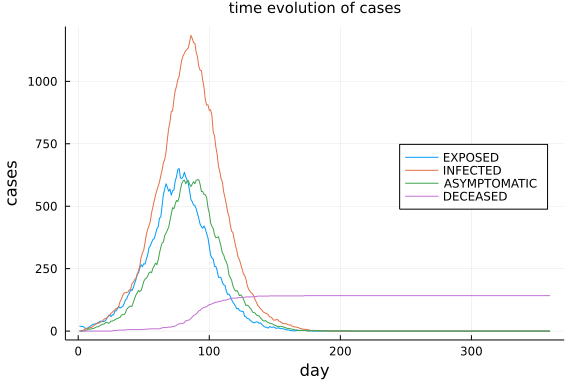
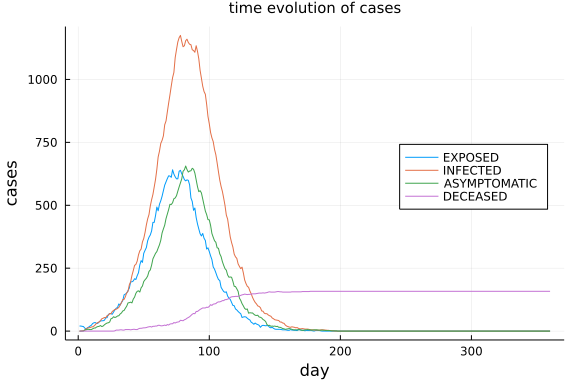
simplify evolution

diff --git a/docs/src/examples/random_scenario.md b/docs/src/examples/random_scenario.md
@@ -275,12 +275,12 @@ res_blocks_distrib = EpiSiming.gen_res_blocks(pop_blocks, res_size_distribution)
 
 ```
 6×12 Matrix{Vector{Int64}}:
- [8, 19, 28, 21, 4, 4, 1, 0]  …  [0, 2, 2, 1, 1, 1, 0, 0]
- [5, 7, 12, 7, 2, 1, 0, 0]       [7, 15, 21, 14, 3, 3, 1, 0]
- [2, 6, 8, 5, 1, 2, 0, 0]        [6, 15, 24, 14, 3, 3, 2, 0]
- [5, 11, 13, 10, 2, 3, 0, 0]     [7, 16, 26, 17, 3, 3, 1, 0]
- [5, 16, 19, 13, 2, 2, 1, 0]     [5, 10, 18, 11, 3, 2, 0, 0]
- [4, 10, 16, 10, 2, 3, 0, 0]  …  [6, 10, 16, 11, 3, 2, 1, 0]
+ [10, 19, 28, 19, 4, 5, 1, 0]  …  [1, 4, 2, 1, 0, 1, 0, 0]
+ [4, 7, 14, 7, 1, 1, 0, 0]        [8, 16, 20, 14, 3, 3, 1, 0]
+ [3, 6, 7, 7, 1, 1, 0, 0]         [8, 14, 25, 15, 3, 3, 1, 0]
+ [5, 11, 14, 9, 2, 2, 1, 0]       [8, 17, 25, 17, 3, 3, 1, 0]
+ [5, 13, 19, 13, 2, 3, 1, 0]      [5, 11, 17, 11, 2, 3, 0, 0]
+ [6, 11, 15, 10, 3, 2, 0, 0]   …  [8, 11, 20, 10, 2, 2, 0, 0]
 ```
 
 
@@ -330,7 +330,7 @@ residences = EpiSiming.gen_residences(rng, res_blocks_distrib)
 ```
 
 ```
-3291-element EpiSiming.Residences{Int64, Float64}:
+3308-element EpiSiming.Residences{Int64, Float64}:
  (1, (1.5555555555555556, 1.3888888888888888), 1, [1])
  (1, (1.5, 1.0), 1, [2])
  (1, (1.5, 1.5), 1, [3])
@@ -339,23 +339,21 @@ residences = EpiSiming.gen_residences(rng, res_blocks_distrib)
  (1, (1.3333333333333333, 1.7777777777777777), 1, [6])
  (1, (1.5555555555555556, 1.0555555555555556), 1, [7])
  (1, (1.5555555555555556, 1.2777777777777777), 1, [8])
- (1, (1.6111111111111112, 1.6111111111111112), 2, [9, 10])
- (1, (1.7222222222222223, 1.7222222222222223), 2, [11, 12])
+ (1, (1.6111111111111112, 1.6111111111111112), 1, [9])
+ (1, (1.7222222222222223, 1.7222222222222223), 1, [10])
  ⋮
- (72, (6.071428571428571, 12.642857142857142), 4, [9955, 9956, 9957, 9958])
- (72, (6.928571428571429, 12.714285714285714), 4, [9959, 9960, 9961, 9962])
- (72, (6.857142857142857, 12.785714285714286), 4, [9963, 9964, 9965, 9966])
- (72, (6.142857142857143, 12.214285714285714), 5, [9967, 9968, 9969, 9970, 
-9971])
- (72, (6.928571428571429, 12.571428571428571), 5, [9972, 9973, 9974, 9975, 
-9976])
- (72, (6.214285714285714, 12.5), 5, [9977, 9978, 9979, 9980, 9981])
- (72, (6.142857142857143, 12.357142857142858), 6, [9982, 9983, 9984, 9985, 
-9986, 9987])
- (72, (6.571428571428571, 12.285714285714286), 6, [9988, 9989, 9990, 9991, 
-9992, 9993])
- (72, (6.5, 12.285714285714286), 7, [9994, 9995, 9996, 9997, 9998, 9999, 10
-000])
+ (72, (6.357142857142857, 12.142857142857142), 4, [9959, 9960, 9961, 9962])
+ (72, (6.142857142857143, 12.642857142857142), 4, [9963, 9964, 9965, 9966])
+ (72, (6.857142857142857, 12.142857142857142), 4, [9967, 9968, 9969, 9970])
+ (72, (6.571428571428571, 12.214285714285714), 4, [9971, 9972, 9973, 9974])
+ (72, (6.785714285714286, 12.357142857142858), 4, [9975, 9976, 9977, 9978])
+ (72, (6.5, 12.285714285714286), 5, [9979, 9980, 9981, 9982, 9983])
+ (72, (6.071428571428571, 12.357142857142858), 5, [9984, 9985, 9986, 9987, 
+9988])
+ (72, (6.428571428571429, 12.857142857142858), 6, [9989, 9990, 9991, 9992, 
+9993, 9994])
+ (72, (6.071428571428571, 12.428571428571429), 6, [9995, 9996, 9997, 9998, 
+9999, 10000])
 ```
 
 
@@ -424,62 +422,62 @@ population = EpiSiming.gen_population(
 ```
 10000-element EpiSiming.Population{EpiSiming.Phase, Int64}:
  (S, 1, (E, 9223372036854775807), 1, (1.5694444444444444, 1.388888888888888
-8), 44, 0.8429668909281123, 1.0871421914278978, Dict{Symbol, Int64}(), Dict
+8), 36, 0.8429668909281123, 1.0871421914278978, Dict{Symbol, Int64}(), Dict
 {Symbol, Int64}())
- (S, 1, (E, 9223372036854775807), 2, (1.5138888888888888, 1.0), 34, 0.63460
+ (S, 1, (E, 9223372036854775807), 2, (1.5138888888888888, 1.0), 21, 0.63460
 32739780121, 0.9288554210581556, Dict{Symbol, Int64}(), Dict{Symbol, Int64}
 ())
- (S, 1, (E, 9223372036854775807), 3, (1.5138888888888888, 1.5), 9, 1.866136
-384893467, 0.6379958240264992, Dict{Symbol, Int64}(), Dict{Symbol, Int64}()
-)
+ (S, 1, (E, 9223372036854775807), 3, (1.5138888888888888, 1.5), 51, 1.86613
+6384893467, 0.6379958240264992, Dict{Symbol, Int64}(), Dict{Symbol, Int64}(
+))
  (S, 1, (E, 9223372036854775807), 4, (1.7361111111111112, 1.222222222222222
-3), 43, 1.9630070493538805, 0.49089045628844613, Dict{Symbol, Int64}(), Dic
+3), 32, 1.9630070493538805, 0.49089045628844613, Dict{Symbol, Int64}(), Dic
 t{Symbol, Int64}())
- (S, 1, (E, 9223372036854775807), 5, (1.9583333333333333, 1.5), 23, 0.17974
+ (S, 1, (E, 9223372036854775807), 5, (1.9583333333333333, 1.5), 40, 0.17974
 072857925905, 0.9196908284361106, Dict{Symbol, Int64}(), Dict{Symbol, Int64
 }())
  (S, 1, (E, 9223372036854775807), 6, (1.347222222222222, 1.7777777777777777
-), 40, 0.8018440204599591, 0.8572836161482715, Dict{Symbol, Int64}(), Dict{
+), 31, 0.8018440204599591, 0.8572836161482715, Dict{Symbol, Int64}(), Dict{
 Symbol, Int64}())
  (S, 1, (E, 9223372036854775807), 7, (1.5694444444444444, 1.055555555555555
-6), 42, 0.7121991800323644, 1.4273823226339426, Dict{Symbol, Int64}(), Dict
+6), 90, 0.7121991800323644, 1.4273823226339426, Dict{Symbol, Int64}(), Dict
 {Symbol, Int64}())
  (S, 1, (E, 9223372036854775807), 8, (1.5694444444444444, 1.277777777777777
-7), 6, 0.7803803598677808, 0.7458566679008322, Dict{Symbol, Int64}(), Dict{
-Symbol, Int64}())
- (S, 1, (E, 9223372036854775807), 9, (1.625, 1.6111111111111112), 12, 0.753
+7), 70, 0.7803803598677808, 0.7458566679008322, Dict{Symbol, Int64}(), Dict
+{Symbol, Int64}())
+ (S, 1, (E, 9223372036854775807), 9, (1.625, 1.6111111111111112), 64, 0.753
 3507391116316, 1.0597501527579962, Dict{Symbol, Int64}(), Dict{Symbol, Int6
 4}())
- (S, 1, (E, 9223372036854775807), 9, (1.5972222222222223, 1.611111111111111
-2), 56, 1.0583784725947785, 0.6163376056877701, Dict{Symbol, Int64}(), Dict
-{Symbol, Int64}())
- ⋮
- (S, 1, (E, 9223372036854775807), 3290, (6.5625, 12.270249546360994), 39, 0
-.7425559871162212, 1.878529197903739, Dict{Symbol, Int64}(), Dict{Symbol, I
-nt64}())
- (S, 1, (E, 9223372036854775807), 3290, (6.580357142857142, 12.270249546360
-994), 34, 1.3467418715174564, 0.6158224898743601, Dict{Symbol, Int64}(), Di
-ct{Symbol, Int64}())
- (S, 1, (E, 9223372036854775807), 3291, (6.517857142857143, 12.285714285714
-286), 62, 0.5713254684769675, 1.2604338561736381, Dict{Symbol, Int64}(), Di
-ct{Symbol, Int64}())
- (S, 1, (E, 9223372036854775807), 3291, (6.511133746461763, 12.299675562186
-93), 12, 0.71166954083545, 0.6573989249359745, Dict{Symbol, Int64}(), Dict{
-Symbol, Int64}())
- (S, 1, (E, 9223372036854775807), 3291, (6.496026411893637, 12.303123712717
-534), 59, 0.9299123501842387, 0.5603267260793015, Dict{Symbol, Int64}(), Di
-ct{Symbol, Int64}())
- (S, 1, (E, 9223372036854775807), 3291, (6.483911270216028, 12.293462209627
-1), 37, 0.3495478705397754, 0.7703472343146436, Dict{Symbol, Int64}(), Dict
-{Symbol, Int64}())
- (S, 1, (E, 9223372036854775807), 3291, (6.483911270216028, 12.277966361801
-473), 22, 0.6946812843355863, 2.073824042353887, Dict{Symbol, Int64}(), Dic
+ (S, 1, (E, 9223372036854775807), 10, (1.7361111111111112, 1.72222222222222
+23), 50, 1.0583784725947785, 0.6163376056877701, Dict{Symbol, Int64}(), Dic
 t{Symbol, Int64}())
- (S, 1, (E, 9223372036854775807), 3291, (6.496026411893637, 12.268304858711
-039), 37, 1.1293777785439765, 1.4010740192330449, Dict{Symbol, Int64}(), Di
+ ⋮
+ (S, 1, (E, 9223372036854775807), 3307, (6.410714285714286, 12.857142857142
+858), 36, 0.7425559871162212, 1.878529197903739, Dict{Symbol, Int64}(), Dic
+t{Symbol, Int64}())
+ (S, 1, (E, 9223372036854775807), 3307, (6.419642857142858, 12.841678117789
+565), 47, 1.3467418715174564, 0.6158224898743601, Dict{Symbol, Int64}(), Di
 ct{Symbol, Int64}())
- (S, 1, (E, 9223372036854775807), 3291, (6.511133746461763, 12.271753009241
-642), 17, 0.8959454204650464, 1.9864694366090996, Dict{Symbol, Int64}(), Di
+ (S, 1, (E, 9223372036854775807), 3307, (6.4375, 12.841678117789565), 49, 0
+.5713254684769675, 1.2604338561736381, Dict{Symbol, Int64}(), Dict{Symbol, 
+Int64}())
+ (S, 1, (E, 9223372036854775807), 3308, (6.089285714285714, 12.428571428571
+429), 11, 0.71166954083545, 0.6573989249359745, Dict{Symbol, Int64}(), Dict
+{Symbol, Int64}())
+ (S, 1, (E, 9223372036854775807), 3308, (6.080357142857142, 12.444036167924
+722), 34, 0.9299123501842387, 0.5603267260793015, Dict{Symbol, Int64}(), Di
+ct{Symbol, Int64}())
+ (S, 1, (E, 9223372036854775807), 3308, (6.0625, 12.444036167924722), 48, 0
+.3495478705397754, 0.7703472343146436, Dict{Symbol, Int64}(), Dict{Symbol, 
+Int64}())
+ (S, 1, (E, 9223372036854775807), 3308, (6.053571428571428, 12.428571428571
+429), 37, 0.6946812843355863, 2.073824042353887, Dict{Symbol, Int64}(), Dic
+t{Symbol, Int64}())
+ (S, 1, (E, 9223372036854775807), 3308, (6.0625, 12.413106689218136), 54, 1
+.1293777785439765, 1.4010740192330449, Dict{Symbol, Int64}(), Dict{Symbol, 
+Int64}())
+ (S, 1, (E, 9223372036854775807), 3308, (6.080357142857142, 12.413106689218
+136), 47, 0.8959454204650464, 1.9864694366090996, Dict{Symbol, Int64}(), Di
 ct{Symbol, Int64}())
 ```
 
@@ -781,29 +779,31 @@ time_step = 1
 ```
 
 ```
-1.808879 seconds (65.86 k allocations: 44.565 MiB)
-  0.239124 seconds (2 allocations: 19.766 KiB)
+1.423776 seconds (934.02 k allocations: 95.019 MiB, 3.00% gc time, 44.11%
+ compilation time)
+  0.250617 seconds (55.14 k allocations: 3.325 MiB, 20.51% compilation time
+)
 360×7 Matrix{Int64}:
  9980  20   0  0     0    0  0
+ 9980  20   0  0     0    0  0
  9980  19   1  0     0    0  0
- 9979  18   3  0     0    0  0
- 9978  18   4  0     0    0  0
- 9978  12   8  2     0    0  0
- 9976  11   9  4     0    0  0
- 9972  11  12  5     0    0  0
- 9965  15  11  9     0    0  0
- 9960  19  14  7     0    0  0
- 9954  23  14  9     0    0  0
+ 9980  18   2  0     0    0  0
+ 9980  12   3  5     0    0  0
+ 9978   8   9  5     0    0  0
+ 9968  13  12  7     0    0  0
+ 9964  16  13  7     0    0  0
+ 9960  20  14  6     0    0  0
+ 9955  23  16  6     0    0  0
     ⋮                     ⋮  
- 2084   0   0  0  7774  142  0
- 2084   0   0  0  7774  142  0
- 2084   0   0  0  7774  142  0
- 2084   0   0  0  7774  142  0
- 2084   0   0  0  7774  142  0
- 2084   0   0  0  7774  142  0
- 2084   0   0  0  7774  142  0
- 2084   0   0  0  7774  142  0
- 2084   0   0  0  7774  142  0
+ 1914   0   0  0  7928  158  0
+ 1914   0   0  0  7928  158  0
+ 1914   0   0  0  7928  158  0
+ 1914   0   0  0  7928  158  0
+ 1914   0   0  0  7928  158  0
+ 1914   0   0  0  7928  158  0
+ 1914   0   0  0  7928  158  0
+ 1914   0   0  0  7928  158  0
+ 1914   0   0  0  7928  158  0
 ```
 
 
